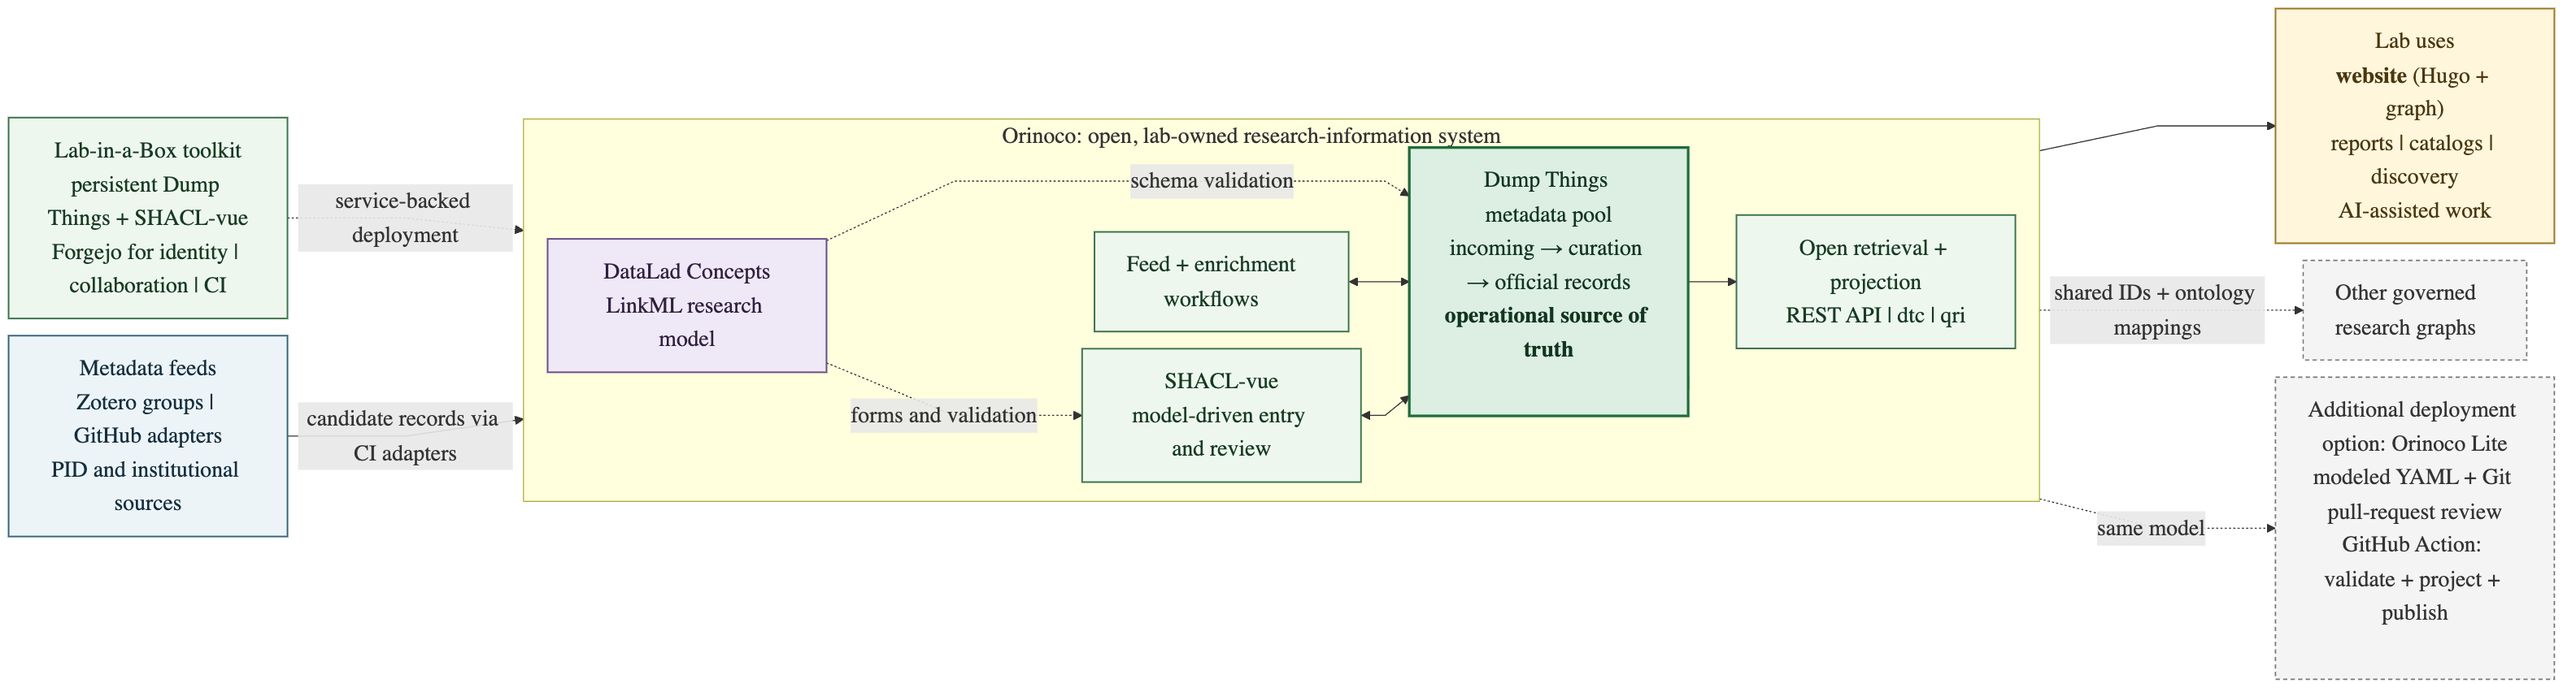
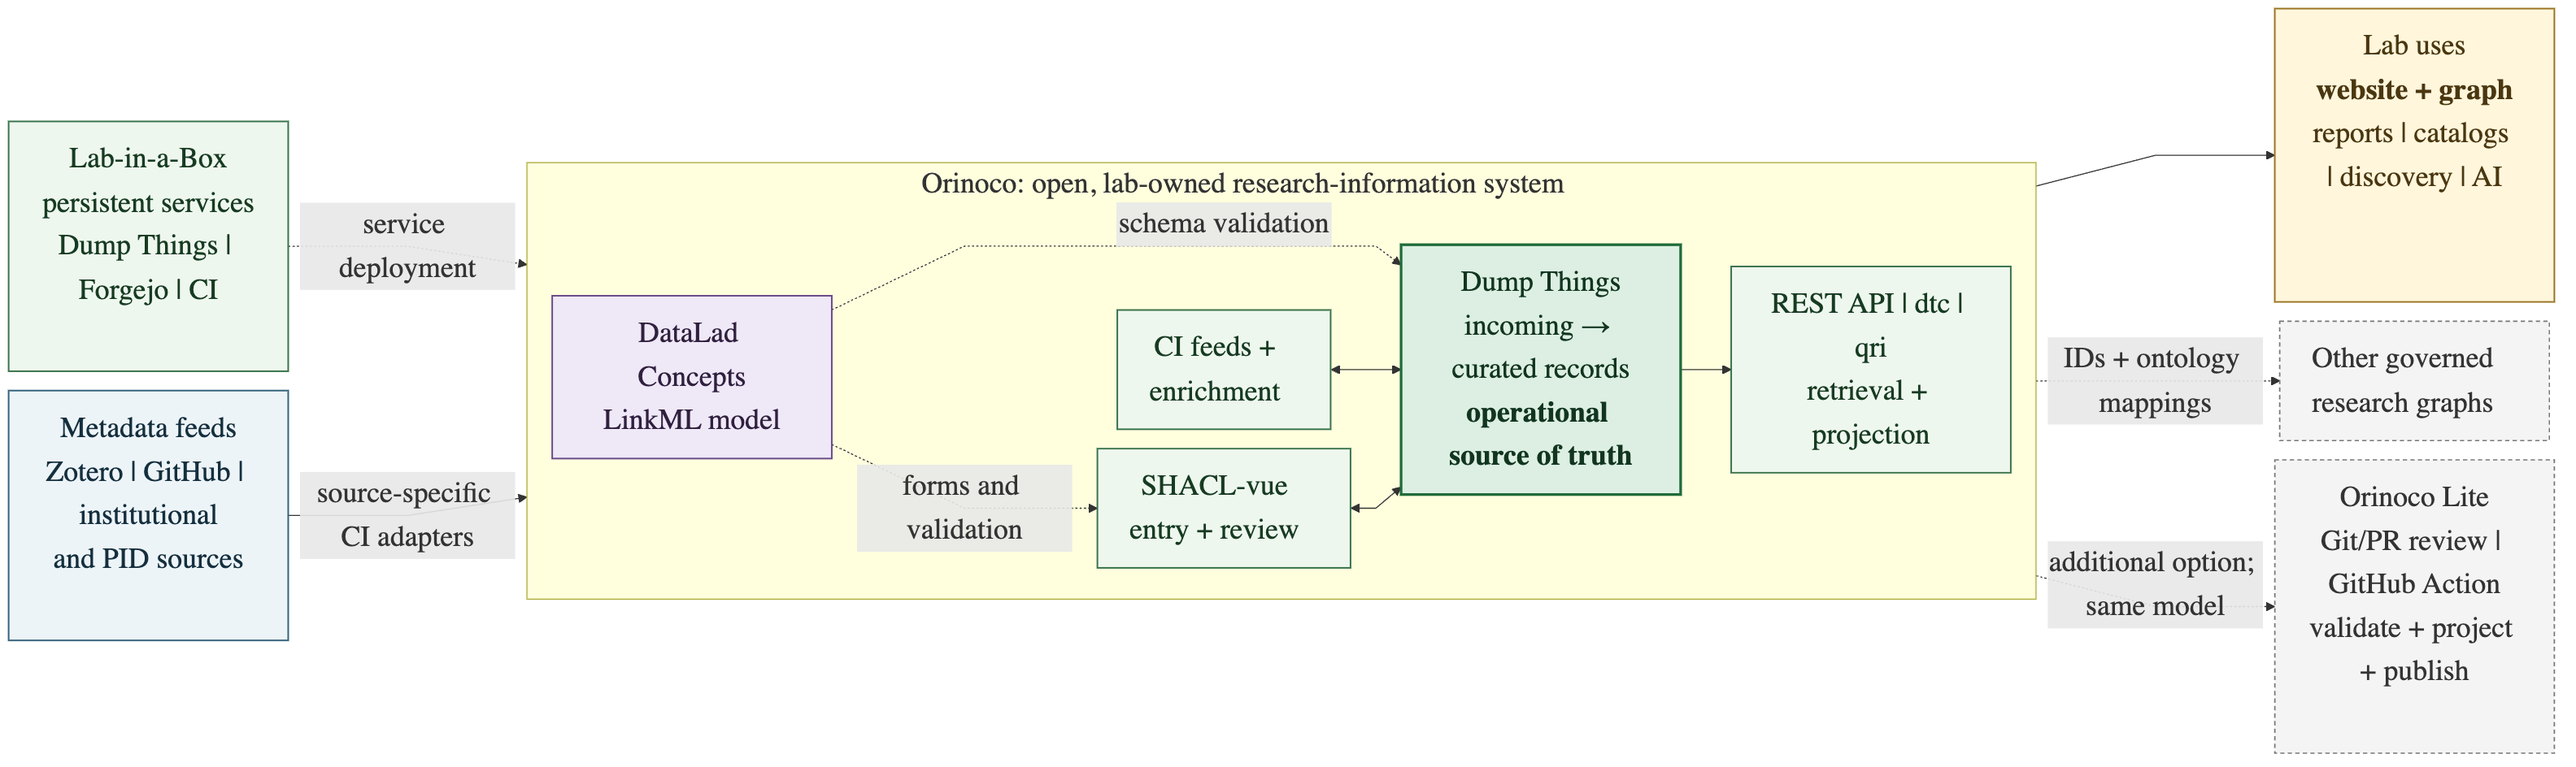
Improve poster figure legibility and mission alignment

diff --git a/2026-usrse/orinoco-lite-poster-draft.md b/2026-usrse/orinoco-lite-poster-draft.md
@@ -86,7 +86,7 @@ Designing those systems as maintainable, reusable infrastructure brings together
 Orinoco provides a concrete setting in which to make that frequently invisible RSE contribution legible.
 
 This contribution advances US-RSE's Community, Advocacy, and Resources goals in distinct ways.
-It gives RSEs a concrete basis for comparing approaches across labs and institutions; advocates for metadata modeling and stewardship as consequential RSE work; and contributes open resources, including shared models, validation workflows, and service-backed and GitHub-based implementations, that practitioners can evaluate and adapt.
+It gives RSEs a concrete basis for exchanging approaches across labs and institutions; advocates for metadata modeling and stewardship as consequential RSE work; and contributes open models and validation workflows that practitioners can evaluate and adapt across service-backed and GitHub-based deployments.
 It also highlights the RSE judgment required to connect local needs with community standards and choose an operating model a group can sustain.
 
 The conference theme makes this foundation more urgent.
